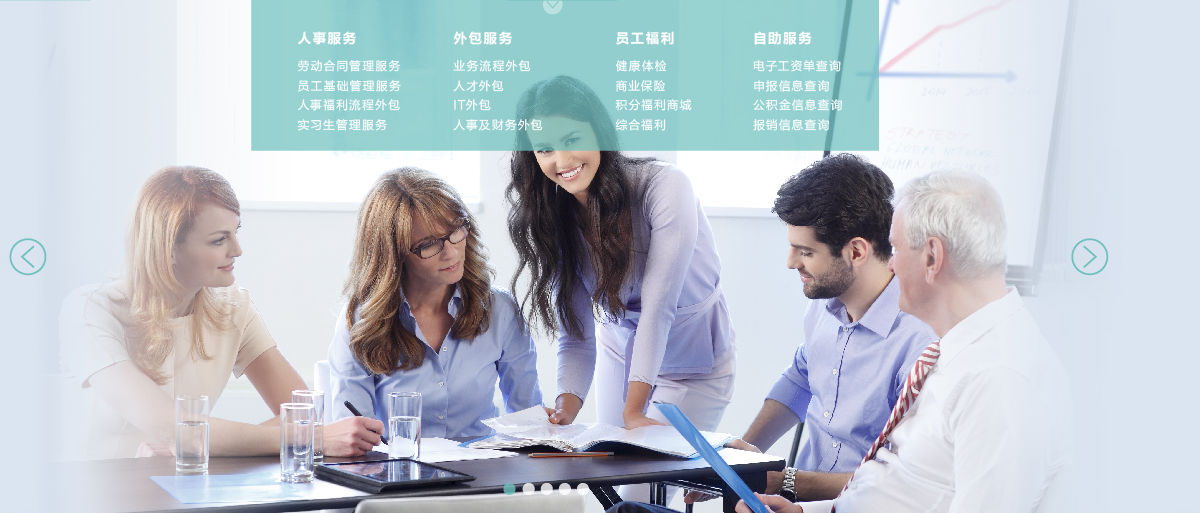
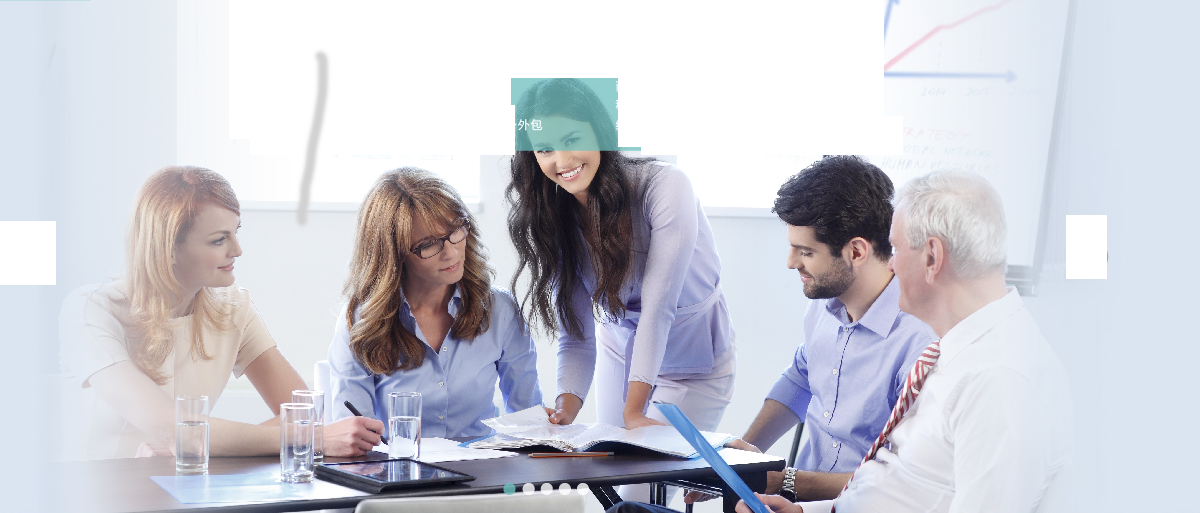
update

Changed region(s): [[0.185, 0.0, 0.74, 0.4366], [0.8633, 0.4055, 0.925, 0.5614], [0.0, 0.4055, 0.0617, 0.5614]]

diff --git a/3.私活任务/vjoy/news_info.html b/3.私活任务/vjoy/news_info.html
@@ -102,28 +102,16 @@
             <li><span class=""></span>工伤咨询</li>
             <li class="nobor"><span class=""></span>公积金咨询</li>
           </ul>
-          <ul class="news">
-            <li><a href="#">德法德法德法德法德法德法德法德法 <span>2016-07-07</span></a></li>
-            <li><a href="#">德法德法德德法德法德法德法 <span>2016-07-07</span></a></li>
-            <li><a href="#">德法德法德法德法德法德法德法德法 <span>2016-07-07</span></a></li>
-            <li><a href="#">德法德法德法德法德法德法德法德法 <span>2016-07-07</span></a></li>
-            <li><a href="#">德法德法德法德法德法德法法德法 <span>2016-07-07</span></a></li>
-            <li><a href="#">德法德法德法德法德法德法德法德法 <span>2016-07-07</span></a></li>
-            <li><a href="#">德法德法德法德法德法德法德法德法德法德法德法德法德法德法 <span>2016-07-07</span></a></li>
-            <li><a href="#">德法德法德法德法法德法德法德法 <span>2016-07-07</span></a></li>
-            <li><a href="#">德法德法德法德法德法德法 <span>2016-07-07</span></a></li>
-            <li><a href="#">德法德法德法德法德法德德法德法 <span>2016-07-07</span></a></li>
-            <li><a href="#">德法德法德法德法德德法德法德法 <span>2016-07-07</span></a></li>
-            <li><a href="#">德法德法德法德法德法德法德法 <span>2016-07-07</span></a></li>
-            <li><a href="#">德法德法德法德法德法德法德法德法 <span>2016-07-07</span></a></li>
-          </ul>
-          <ul class="pages">
-            <li><a href="#" class="nobor">&lt;</a></li>
-            <li><a href="#">1</a></li>
-            <li class="active"><a href="#">2</a></li>
-            <li><a href="#">3</a></li>
-            <li><a href="#" class="nobor">&gt;</a></li>
-          </ul>
+          <div class="newsInfo">
+            <h4>上海寻路人力资源服务有限公司</h4>
+            <p class="title">一.业务说明:</p>
+            <p>上海寻路人力资源服务有限公司上海寻路人力资源服务有限公司上海寻路人力资源服务有限公司上海寻路人力资源服务有限公司</p>
+            <p class="title">二.业务说明:</p>
+            <p>1.发射点发射点</p>
+            <p>2.发射点发射点</p>
+            <p>3.发射点发射点发射点发射点发射点发射点发射点发射点发射点发射点发射点发射点发射点发射点发射点发射点发射点发射点发射点发射点发射点发射点发射点发射点发射点发射点发射点发射点发射点发射点</p>
+            <p>4.发射点发射点</p>
+          </div>
       </div>
     </div>
     <div class="wrap footer">

diff --git a/3.私活任务/vjoy/css/style.css b/3.私活任务/vjoy/css/style.css
@@ -178,6 +178,7 @@ ul{
         right: 93px;
         top: 57px;
         z-index: 99;
+        display: none;
       }
       .header .pos ul{
         width: 25%;
@@ -258,9 +259,26 @@ ul{
   height: 15px;
   background: #fafafc;
   margin-left: 5px;
+  cursor: pointer;
 }
-.slider .icons li:active{
+.slider .icons li.active,.slider .icons li:hover{
   background: #65a9aa;
+}
+.slider .jt-left,.slider .jt-right{
+  position: absolute;
+  display: inline-block;
+  width: 40px;
+  height: 40px;
+  top: 46%;
+  left: 0;
+  background: url('../img/icon_jtleft.png');
+  background-size: 100% 100%;
+}
+.slider .jt-right{
+  left: auto;
+  right: 0;
+  background: url('../img/icon_jtright.png');
+  background-size: 100% 100%;
 }
 
 .area1{
@@ -287,10 +305,24 @@ ul{
   width: 100%;
   height: 100%;
   background: rgba(113,193,192,0.5);
+  display: none;
 }
 .area2 .pos ul{
   margin-top: 130px;
   margin-left: 30px;
+}
+.area2 .pos-title{
+  display: inline-block;
+  position: absolute;
+  bottom: 0;
+  left: 0;
+  width: 100%;
+  height: 45px;
+  line-height: 45px;
+  text-align: center;
+  font-size: 15px;
+  color: #fff;
+  background: rgba(113,193,192,0.5);
 }
 .area2 .pos li{
   color: #fff;
@@ -493,10 +525,57 @@ ul{
 }
 .news-area2 .news li{
   padding: 5px 0;
-  list-style: circle;
+  list-style: disc;
+  list-style-position: inside;
+}
+.news-area2 .news li span{
+  display: inline-block;
+  float: right;
+  color: #a5a5a5;
 }
 .news-area2 .news li:before {
-    content: " ";
+  content: " ";
+}
+.news-area2 .pages{
+  float: right;
+  width: 350px;
+  margin-top: 10px;
+  text-align: right;
+  margin-right: 270px;
+}
+.news-area2 .pages li{
+  display: inline-block;
+  margin-right: 5px;
+}
+.news-area2 .pages li a{
+  color: #71c1c0;
+  display: inline-block;
+  padding: 1px 5px;
+  border: 1px solid #71c1c0;
+  border-radius: 50%;
+}
+.news-area2 .pages li.active a{
+  background: #71c1c0;
+  color: #fff;
+}
+.news-area2 .newsInfo{
+  margin-left: 180px;
+  float: left;
+  width: 700px;
+}
+.news-area2 .newsInfo h4{
+  font-size: 15px;
+  color: #838383;
+  margin: 10px 0 50px;
+}
+.news-area2 .newsInfo p{
+  font-size: 14px;
+  color: #838383;
+  margin: 2px 0 2px 0;
+  margin-left: 15px;
+}
+.news-area2 .newsInfo p.title{
+  margin-left: 0px;
 }
 
 

diff --git a/3.私活任务/vjoy/index.html b/3.私活任务/vjoy/index.html
@@ -41,7 +41,7 @@
     </div>
     <div class="wrap header">
       <div class="main">
-        <ul>
+        <ul class="jq-header">
           <li><a href="#">社保资讯</a>
           </li>
           <li><a href="#">企业服务</a>
@@ -89,11 +89,14 @@
       <div class="main">
         <ul class="items">
           <li><a href="#"><img src="img/slider_1.png"></a></li>
-          <li><a href="#"><img src="img/slider_1.png"></a></li>
-          <li><a href="#"><img src="img/slider_1.png"></a></li>
-          <li><a href="#"><img src="img/slider_1.png"></a></li>
+          <li><a href="#"><img src="img/slider_2.jpg"></a></li>
+          <li><a href="#"><img src="img/slider_3.jpg"></a></li>
+          <li><a href="#"><img src="img/slider_4.jpg"></a></li>
+          <li><a href="#"><img src="img/slider_5.jpg"></a></li>
         </ul>
         <ul class="icons">
+          <li class="active"></li>
+          <li></li>
           <li></li>
           <li></li>
           <li></li>
@@ -123,6 +126,7 @@
                 <li><a href="#">劳动合同管理服务</a></li>
               </ul>
             </div>
+            <span class="pos-title">人事服务</span>
           </li>
           <li>
             <img src="img/area2_item1.png">

diff --git a/3.私活任务/vjoy/js/main.js b/3.私活任务/vjoy/js/main.js
@@ -1,0 +1,36 @@
+$(function(){
+  $('.jq-header>li').mouseenter(function(){
+    $(this).find(".pos").show();
+  }).mouseleave(function(){
+    $(this).find(".pos").hide();
+  });
+  $('.area2 .item>li').mouseenter(function(){
+    $(this).find(".pos").show();
+    $(this).find(".pos-title").hide();
+  }).mouseleave(function(){
+    $(this).find(".pos-title").show();
+    $(this).find(".pos").hide();
+  });
+  //幻灯片
+  var nowSlider = 0;
+  var maxSlider = $(".slider .items>li").length;
+  function gotoSlider(id){
+    $(".slider .items>li").hide();
+    $(".slider .items>li").eq(id).show();
+    $(".slider .icons>li").removeClass('active');
+    $(".slider .icons>li").eq(id).addClass('active');
+  }
+  $(".slider .icons>li").each(function(index){
+    $(this).click(function(){
+      gotoSlider(index);
+    });
+  });
+  $(".slider .jt-left").click(function(){
+    nowSlider = nowSlider-->0?nowSlider--:maxSlider-1;
+    gotoSlider(nowSlider);
+  });
+  $(".slider .jt-right").click(function(){
+    nowSlider = nowSlider++<maxSlider-1?nowSlider++:0;
+    gotoSlider(nowSlider);
+  });
+});
